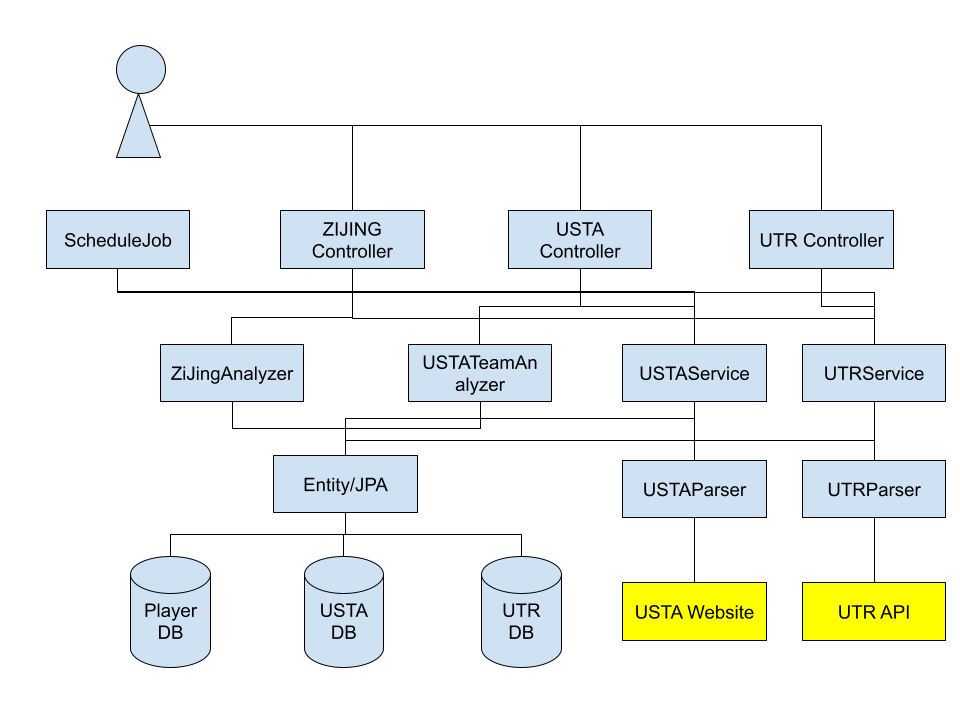
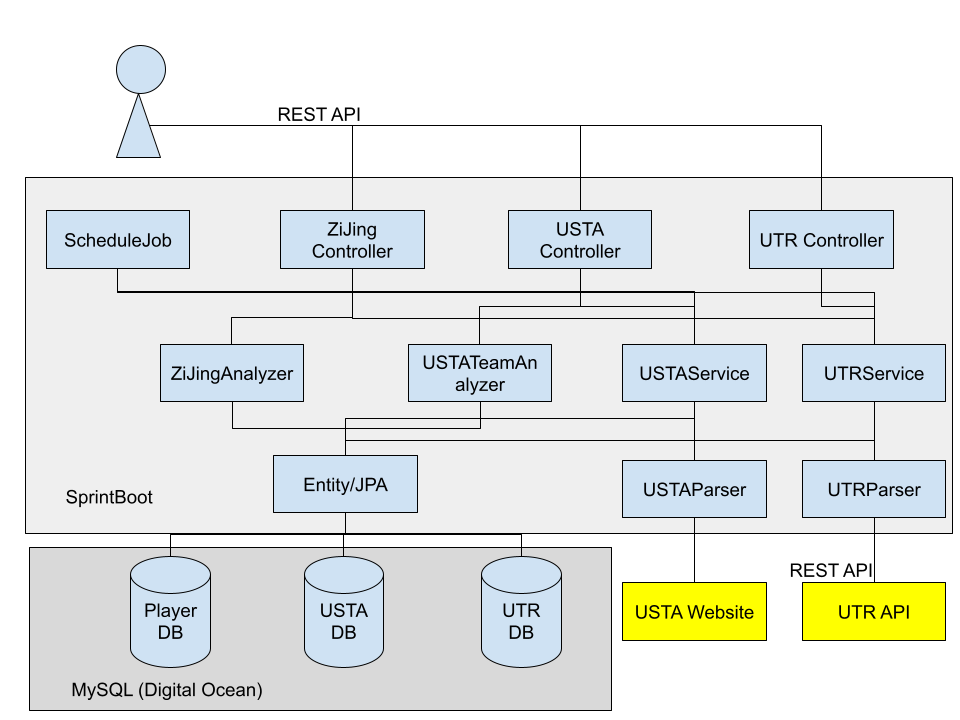
refine architecture diagram and add db diagram

diff --git a/README.md b/README.md
@@ -1,7 +1,12 @@
 # MatchApp
  
-It is an application to analysis UTR data 
+## Description
+It is an backend REST API application to analysis UTR/USTA data based on sprint boot and digital ocean MY SQL DB 
 
-it provides rest apis based on sprint boot
+## Architecture
 
 ![alt text](MatchApp.png "Match App")
+
+## DB Diagram
+
+![alt text](Match.png "Match DB")
